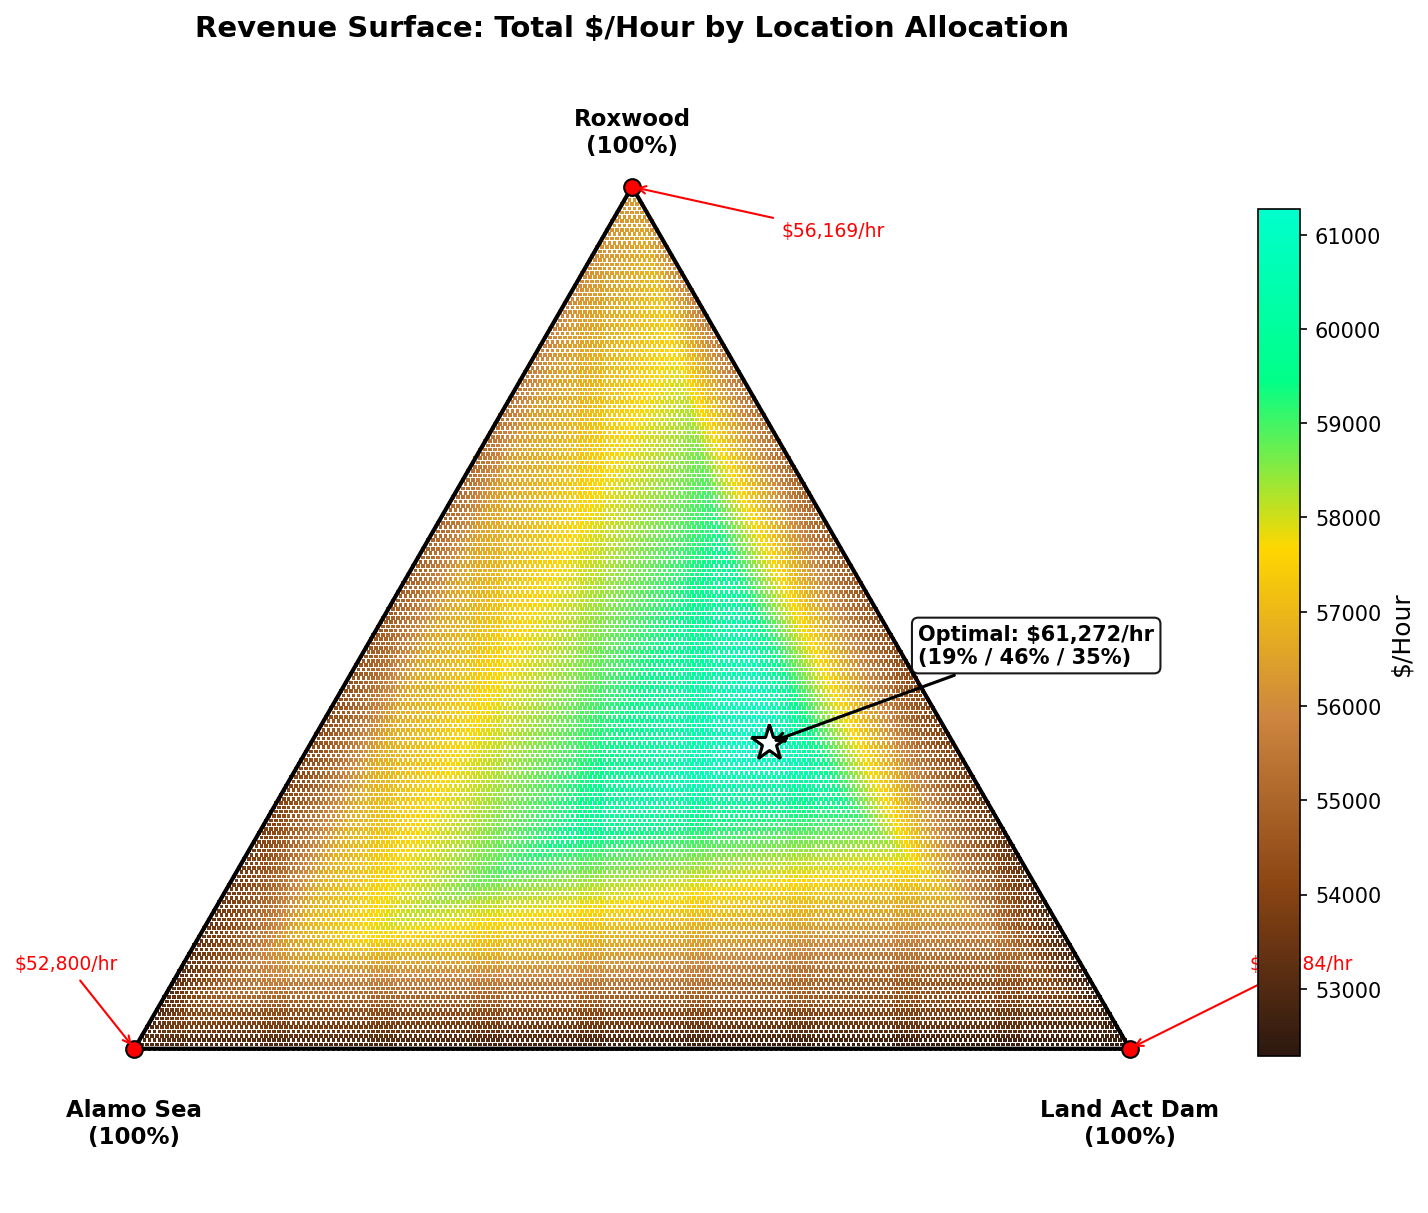
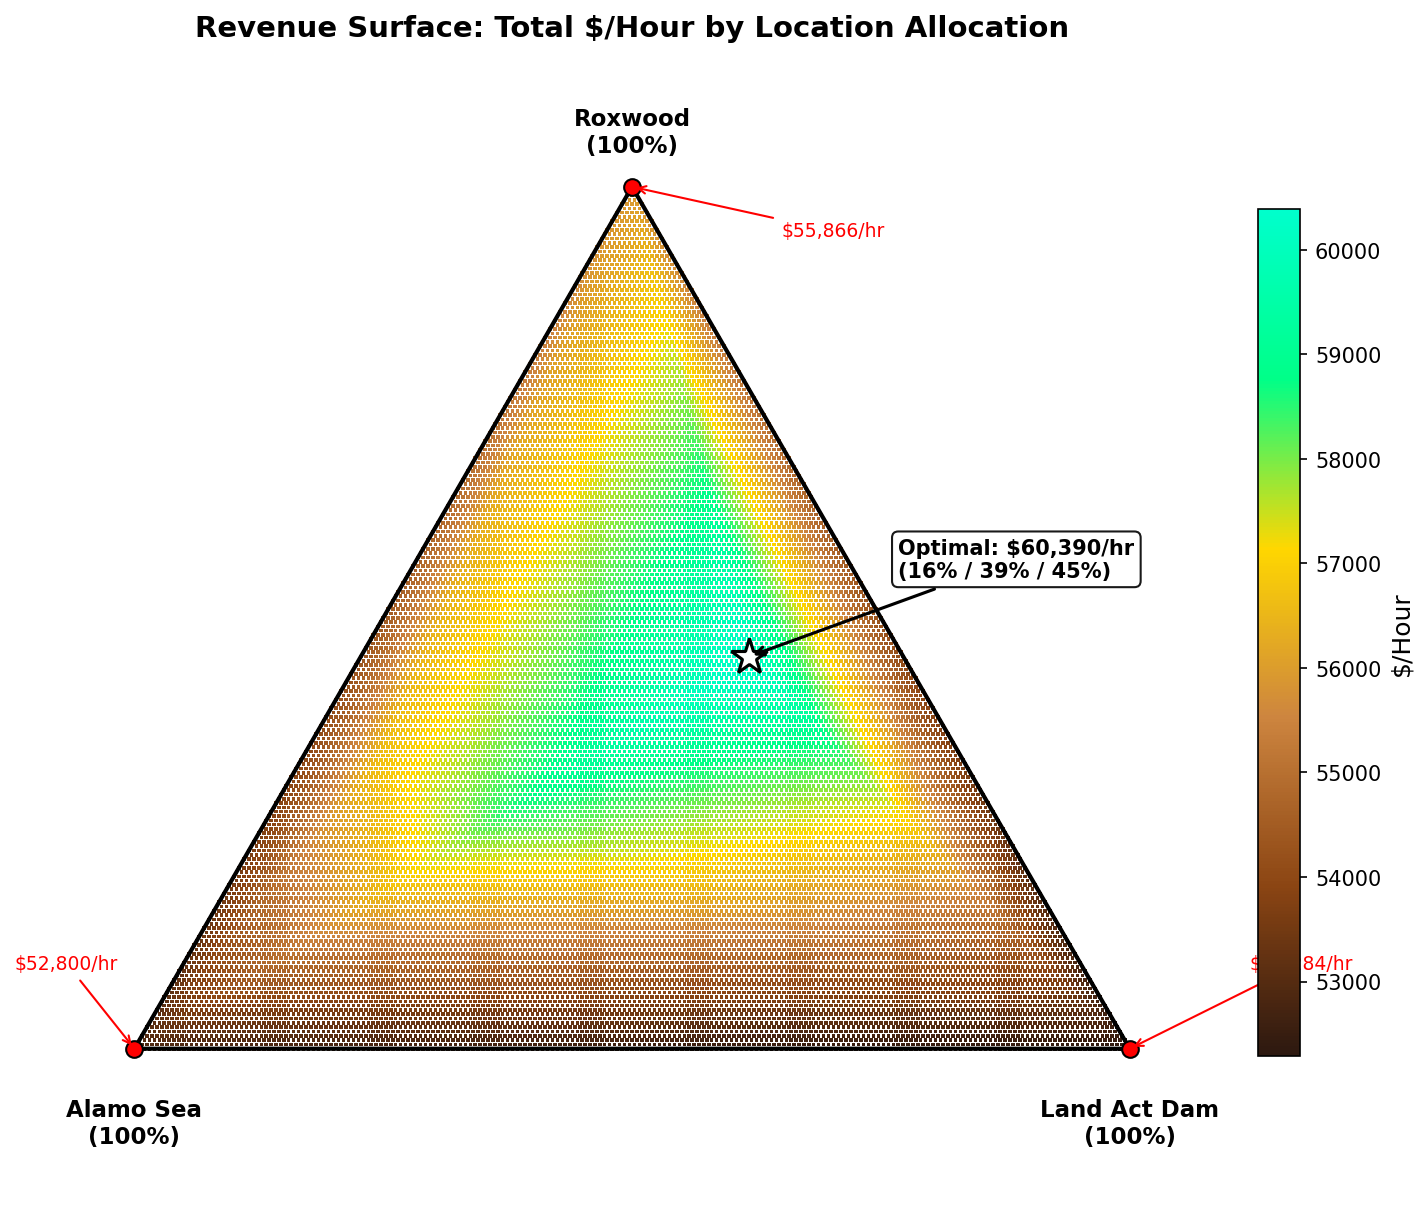
viz

diff --git a/sales/comparison.md b/sales/comparison.md
@@ -6,26 +6,24 @@ Assuming 100s wait for bite + 15s reel-in = 115s per fish (31.3 fish/hour).
 
 ~ = estimated (not yet observed in catch data)
 
-| Location     | Fish Caught | $/Fish (sales) | Available Bundles                                      | $/Fish (bundles) | $/Fish (total) |  $/Hour |
-|--------------|------------:|---------------:|--------------------------------------------------------|-----------------:|---------------:|--------:|
-| Alamo Sea    |         420 |         $1,472 | Gold Multizone #1~, Alamo Starter, Low Level Multizone |             $655 |     **$2,127** | $66,595 |
-| Land Act Dam |         203 |         $1,670 | Gold Multizone #1~, Low Level Multizone                |             $393 |     **$2,063** | $64,583 |
-| Roxwood      |          35 |         $1,794 | Gold Multizone #1~, Low Level Multizone                |             $371 |     **$2,166** | $67,796 |
+| Location     | Fish Caught | $/Fish (sales) | Available Bundles                                     | $/Fish (bundles) | $/Fish (total) |  $/Hour |
+|--------------|------------:|---------------:|-------------------------------------------------------|-----------------:|---------------:|--------:|
+| Alamo Sea    |         420 |         $1,472 | Gold Multizone #1, Alamo Starter, Low Level Multizone |             $655 |     **$2,127** | $66,595 |
+| Land Act Dam |         203 |         $1,670 | Gold Multizone #1, Low Level Multizone                |             $393 |     **$2,063** | $64,583 |
+| Roxwood      |          78 |         $1,785 | Gold Multizone #1, Low Level Multizone                |             $196 |     **$1,980** | $61,987 |
 
 ## Optimal Allocation
-
-Note: some bundle fish probabilities are estimated (~).
 
 Optimal time split across locations to maximize total $/hour (considering both sale value and cross-location bundle completions):
 
 | Location     | Time % | $/Fish (sales) | $/Hour (solo) |
 |--------------|-------:|---------------:|--------------:|
-| Alamo Sea    |    18% |         $1,472 |       $52,800 |
-| Land Act Dam |    46% |         $1,670 |       $52,284 |
-| Roxwood      |    36% |         $1,794 |       $56,169 |
-| **Combined** |   100% |                |   **$61,225** |
+| Alamo Sea    |    16% |         $1,472 |       $52,800 |
+| Land Act Dam |    39% |         $1,670 |       $52,284 |
+| Roxwood      |    45% |         $1,785 |       $55,866 |
+| **Combined** |   100% |                |   **$60,389** |
 
-Splitting across locations yields **$61,225**/hour vs **$56,169**/hour best solo (+$5,056/hour, +9.0%).
+Splitting across locations yields **$60,389**/hour vs **$55,866**/hour best solo (+$4,523/hour, +8.1%).
 
 ## Bundle Details
 
@@ -37,10 +35,10 @@ Splitting across locations yields **$61,225**/hour vs **$56,169**/hour best solo
 
 ### Cross-Location
 
-| Bundle              | Fish                             |   Bonus | Avg Fish to Complete | Avg Time | Bonus/Fish | Catch Rates                                                                                                          |
-|---------------------|----------------------------------|--------:|---------------------:|---------:|-----------:|----------------------------------------------------------------------------------------------------------------------|
-| Gold Multizone #1   | Bluefin Tuna, Musky, Dolphinfish | $12,750 |                  185 |  354 min |        $69 | Bluefin Tuna @ Alamo Sea: 3/420 (0.7%) \| Musky @ Land Act Dam: 11/203 (5.4%) \| Dolphinfish @ Roxwood: ~3.8% (est.) |
-| Low Level Multizone | Scollop, Carp, Grenadier         | $11,000 |                   49 |   94 min |       $225 | Scollop @ Alamo Sea: 47/420 (11.2%) \| Carp @ Land Act Dam: 9/203 (4.4%) \| Grenadier @ Roxwood: 2/35 (5.7%)         |
+| Bundle              | Fish                             |   Bonus | Avg Fish to Complete | Avg Time | Bonus/Fish | Catch Rates                                                                                                         |
+|---------------------|----------------------------------|--------:|---------------------:|---------:|-----------:|---------------------------------------------------------------------------------------------------------------------|
+| Gold Multizone #1   | Bluefin Tuna, Musky, Dolphinfish | $12,750 |                  236 |  453 min |        $54 | Bluefin Tuna @ Alamo Sea: 3/420 (0.7%) \| Musky @ Land Act Dam: 11/203 (5.4%) \| Dolphinfish @ Roxwood: 1/78 (1.3%) |
+| Low Level Multizone | Scollop, Carp, Grenadier         | $11,000 |                   57 |  110 min |       $191 | Scollop @ Alamo Sea: 47/420 (11.2%) \| Carp @ Land Act Dam: 9/203 (4.4%) \| Grenadier @ Roxwood: 3/78 (3.8%)        |
 
 ## Drop Rate Analysis
 
@@ -51,9 +49,9 @@ Tier drop rates are consistent across locations, suggesting a fixed game mechani
 | Tier        | Alamo Sea | Land Act Dam | Roxwood | Average |
 |-------------|----------:|-------------:|--------:|--------:|
 | ★★★★ purple |      0.2% |         0.0% |    0.0% |    0.1% |
-| ★★★         |      6.4% |        11.3% |   11.4% |    9.7% |
-| ★★          |     26.4% |        27.6% |   25.7% |   26.6% |
-| ★           |     65.5% |        61.1% |   62.9% |   63.1% |
+| ★★★         |      6.4% |        11.3% |   10.3% |    9.3% |
+| ★★          |     26.4% |        27.6% |   29.5% |   27.8% |
+| ★           |     65.5% |        61.1% |   60.3% |   62.3% |
 
 ### Within-Tier Weights
 
@@ -134,38 +132,39 @@ Fitted smallest integer weights per fish using χ² goodness-of-fit (p > 0.05 = 
 
 χ² = 2.46, df = 7, p = 0.930 — excellent fit
 
-#### Roxwood — ★★★ (2 fish, 4 observed)
+#### Roxwood — ★★★ (3 fish, 8 observed)
 
 | Fish          | Count | Observed % | Weight | Expected % | Residual |
 |---------------|------:|-----------:|-------:|-----------:|---------:|
-| King Mackerel |     2 |      50.0% |      1 |      50.0% |     +0.0 |
-| Grenadier     |     2 |      50.0% |      1 |      50.0% |     +0.0 |
+| King Mackerel |     4 |      50.0% |      1 |      33.3% |     +1.3 |
+| Grenadier     |     3 |      37.5% |      1 |      33.3% |     +0.3 |
+| Dolphinfish   |     1 |      12.5% |      1 |      33.3% |     -1.7 |
 
-χ² = 0.00, df = 1, p = 1.000 — excellent fit
+χ² = 1.75, df = 2, p = 0.417 — good fit
 
-#### Roxwood — ★★ (6 fish, 9 observed)
+#### Roxwood — ★★ (6 fish, 23 observed)
 
 | Fish         | Count | Observed % | Weight | Expected % | Residual |
 |--------------|------:|-----------:|-------:|-----------:|---------:|
-| Snapper      |     2 |      22.2% |      1 |      16.7% |     +0.5 |
-| Gummy Shark  |     2 |      22.2% |      1 |      16.7% |     +0.5 |
-| Silver Perch |     2 |      22.2% |      1 |      16.7% |     +0.5 |
-| Amberjack    |     1 |      11.1% |      1 |      16.7% |     -0.5 |
-| Brown Trout  |     1 |      11.1% |      1 |      16.7% |     -0.5 |
-| Red Snapper  |     1 |      11.1% |      1 |      16.7% |     -0.5 |
+| Snapper      |     5 |      21.7% |      9 |      19.1% |     +0.6 |
+| Amberjack    |     5 |      21.7% |      9 |      19.1% |     +0.6 |
+| Brown Trout  |     5 |      21.7% |      9 |      19.1% |     +0.6 |
+| Gummy Shark  |     4 |      17.4% |      9 |      19.1% |     -0.4 |
+| Silver Perch |     3 |      13.0% |      9 |      19.1% |     -1.4 |
+| Red Snapper  |     1 |       4.3% |      2 |       4.3% |     +0.0 |
 
-χ² = 1.00, df = 5, p = 0.963 — excellent fit
+χ² = 0.73, df = 5, p = 0.981 — excellent fit
 
-#### Roxwood — ★ (7 fish, 22 observed)
+#### Roxwood — ★ (7 fish, 47 observed)
 
 | Fish               | Count | Observed % | Weight | Expected % | Residual |
 |--------------------|------:|-----------:|-------:|-----------:|---------:|
-| Grouper            |     8 |      36.4% |     10 |      35.7% |     +0.1 |
-| Australian Herring |     4 |      18.2% |      3 |      10.7% |     +1.6 |
-| Sand Whiting       |     3 |      13.6% |      3 |      10.7% |     +0.6 |
-| Sandy Sprat        |     2 |       9.1% |      3 |      10.7% |     -0.4 |
-| Ocean Perch        |     2 |       9.1% |      3 |      10.7% |     -0.4 |
-| Dungeness Crab     |     2 |       9.1% |      3 |      10.7% |     -0.4 |
-| Ocean Jacket       |     1 |       4.5% |      3 |      10.7% |     -1.4 |
+| Grouper            |    14 |      29.8% |     10 |      23.8% |     +2.8 |
+| Sandy Sprat        |    11 |      23.4% |     10 |      23.8% |     -0.2 |
+| Dungeness Crab     |     8 |      17.0% |     10 |      23.8% |     -3.2 |
+| Australian Herring |     4 |       8.5% |      3 |       7.1% |     +0.6 |
+| Sand Whiting       |     4 |       8.5% |      3 |       7.1% |     +0.6 |
+| Ocean Jacket       |     3 |       6.4% |      3 |       7.1% |     -0.4 |
+| Ocean Perch        |     3 |       6.4% |      3 |       7.1% |     -0.4 |
 
-χ² = 2.27, df = 6, p = 0.894 — excellent fit
+χ² = 1.94, df = 6, p = 0.925 — excellent fit

diff --git a/sales/roxwood.md b/sales/roxwood.md
@@ -4,19 +4,20 @@
 
 | Fish               |  Count |        % | Stars | Bundles             |
 |--------------------|-------:|---------:|-------|---------------------|
-| King Mackerel      |      2 |     5.7% | ★★★   |                     |
-| Grenadier          |      2 |     5.7% | ★★★   | Low Level Multizone |
-| Snapper            |      2 |     5.7% | ★★    |                     |
-| Gummy Shark        |      2 |     5.7% | ★★    |                     |
-| Silver Perch       |      2 |     5.7% | ★★    |                     |
-| Amberjack          |      1 |     2.9% | ★★    |                     |
-| Brown Trout        |      1 |     2.9% | ★★    |                     |
-| Red Snapper        |      1 |     2.9% | ★★    | Silver Multizone #2 |
-| Grouper            |      8 |    22.9% | ★     |                     |
-| Australian Herring |      4 |    11.4% | ★     |                     |
-| Sand Whiting       |      3 |     8.6% | ★     |                     |
-| Sandy Sprat        |      2 |     5.7% | ★     |                     |
-| Ocean Perch        |      2 |     5.7% | ★     | Bronze Multizone #1 |
-| Dungeness Crab     |      2 |     5.7% | ★     |                     |
-| Ocean Jacket       |      1 |     2.9% | ★     |                     |
-| **Total**          | **35** | **100%** |       |                     |
+| King Mackerel      |      4 |     5.1% | ★★★   |                     |
+| Grenadier          |      3 |     3.8% | ★★★   | Low Level Multizone |
+| Dolphinfish        |      1 |     1.3% | ★★★   | Gold Multizone #1   |
+| Snapper            |      5 |     6.4% | ★★    |                     |
+| Amberjack          |      5 |     6.4% | ★★    |                     |
+| Brown Trout        |      5 |     6.4% | ★★    |                     |
+| Gummy Shark        |      4 |     5.1% | ★★    |                     |
+| Silver Perch       |      3 |     3.8% | ★★    |                     |
+| Red Snapper        |      1 |     1.3% | ★★    | Silver Multizone #2 |
+| Grouper            |     14 |    17.9% | ★     |                     |
+| Sandy Sprat        |     11 |    14.1% | ★     |                     |
+| Dungeness Crab     |      8 |    10.3% | ★     |                     |
+| Australian Herring |      4 |     5.1% | ★     |                     |
+| Sand Whiting       |      4 |     5.1% | ★     |                     |
+| Ocean Jacket       |      3 |     3.8% | ★     |                     |
+| Ocean Perch        |      3 |     3.8% | ★     | Bronze Multizone #1 |
+| **Total**          | **78** | **100%** |       |                     |

diff --git a/sales/roxwood-log.md b/sales/roxwood-log.md
@@ -1,15 +1,16 @@
-Sandy Sprat  2
-Grouper  8
-King Mackerel  2
+Sandy Sprat  11
+Grouper  14
+King Mackerel  4
 Australian Herring  4
-Snapper  2
-Gummy Shark  2
-Sand Whiting  3
-Ocean Jacket  1
-Grenadier  2
-Ocean Perch  2
-Dungeness Crab  2
-Silver Perch  2
-Amberjack  1
-Brown Trout  1
+Snapper  5
+Gummy Shark  4
+Sand Whiting  4
+Ocean Jacket  3
+Grenadier  3
+Ocean Perch  3
+Dungeness Crab  8
+Silver Perch  3
+Amberjack  5
+Brown Trout  5
 Red Snapper  1
+Dolphinfish  1
